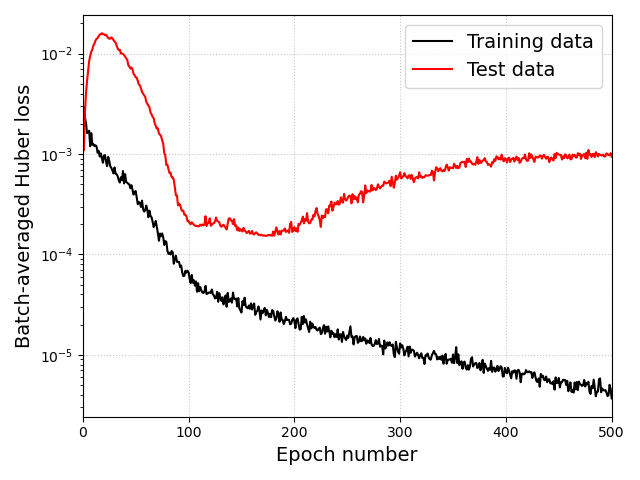
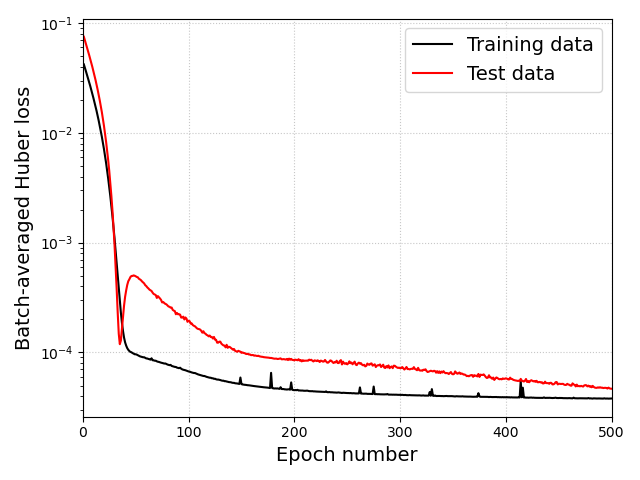
Adding latest LSTM code

diff --git a/scripts/lstm/lstm_model.py b/scripts/lstm/lstm_model.py
@@ -24,7 +24,7 @@ config = {
 # Features of interest
 'feature_names': ['pressure', 'dpdt'],
 # Fraction of full data kept aside as training data
-'train_frac': 0.8,
+'train_frac': 0.50,
 # Sequence length
 'seq_length': 16,
 # Batch size
@@ -69,8 +69,9 @@ def fit_lstm(config: dict) -> None:
     features, t0, target_vals = daily_seismic_and_interpolated_pressure(seismic_df, pressure_df)
     features['cum_counts'] = target_vals
     print('Aggregated pressure and seismic data.')
-    # Pass cumulative counts as input.
-    config['feature_names'].append('cum_counts')
+    # Pass historical target values as input.
+    if 'cum_counts' not in config['feature_names']:
+        config['feature_names'].append('cum_counts')
 
     train_dset, test_dset, x_scaler, y_scaler = construct_dataset(features, target_vals, config['seq_length'],
                                                                   config['feature_names'], config['train_frac'],
@@ -115,17 +116,22 @@ def fit_lstm(config: dict) -> None:
     prediction_train = predict(train_eval_loader, model)
     prediction_test = predict(test_loader, model)
     # Undo normalization.
-    y_train = y_scaler.inverse_transform(train_dset.y.numpy().reshape(-1,1)).flatten()
-    y_test = y_scaler.inverse_transform(test_dset.y.numpy().reshape(-1,1)).flatten()
+    y_train = y_scaler.inverse_transform(train_dset.Y.numpy().reshape(-1,1)).flatten()
+    y_test = y_scaler.inverse_transform(test_dset.Y.numpy().reshape(-1,1)).flatten()
     prediction_train = y_scaler.inverse_transform(prediction_train.numpy().reshape(-1,1)).flatten()
     prediction_test =  y_scaler.inverse_transform(prediction_test.numpy().reshape(-1,1)).flatten()
+    # Pad predictions with NaNs to the size of train and test data.
+    start_pad = np.zeros(config['seq_length'])*np.NaN
+    end_pad = np.zeros(1)*np.NaN # Horizon length = 1
+    prediction_train = np.concatenate((start_pad, prediction_train, end_pad))
+    prediction_test = np.concatenate((start_pad, prediction_test, end_pad))
     print('Computed model prediction on training and test data')
 
     print('Plotting loss curve')
     plot_losscurve(n_epoch, train_loss, test_loss, config['criterion'], config['PLOT_DIR']+'losscurve', config['plot_formats'])
 
     print('Plotting train/test data and model prediction')
-    test_start_idx = len(train_dset.y)
+    test_start_idx = len(train_dset.Y)
     plot_modelpred(features.days[:test_start_idx], y_train, features.days[test_start_idx:], y_test,
                    prediction_train, prediction_test, t0, config['PLOT_DIR']+'prediction', config['plot_formats'])
 

diff --git a/src/saif/lstm/dataset.py b/src/saif/lstm/dataset.py
@@ -2,6 +2,7 @@ import torch, math
 import numpy as np
 import pandas as pd
 from torch.utils.data import Dataset
+from saif.scinet.dataset import TimeSeriesDataset
 from saif.ml_utils.normalization import normalize
 from typing import List, Tuple
 ####################################################################
@@ -19,9 +20,10 @@ class LSTMdataset(Dataset):
         seq_length: int
              Sequence length
         '''
+        self.horizon = 1
         self.seq_length = seq_length
         self.X = torch.tensor(feature_data).float()
-        self.y = torch.tensor(target_data).float()
+        self.Y = torch.tensor(target_data).float()
 
     def __len__(self):
         '''
@@ -35,13 +37,19 @@ class LSTMdataset(Dataset):
         If i is near the beginning of the dataset, we pad by repeating the first row as many times as needed to make the output have seq_length rows.
         '''
         if i >= self.seq_length - 1:
-            i_start = i - self.seq_length + 1
-            x = self.X[i_start:(i + 1), :]
+            x_start = i - self.seq_length + 1
+            x_end = x_start + self.seq_length
+            y_start = x_end
+            y_end = y_start + self.horizon
+            x = self.X[x_start:x_end, :]
+            y = self.Y[y_start:y_end]
         else:
             padding = self.X[0].repeat(self.seq_length - i - 1, 1)
             x = self.X[0:(i + 1), :]
             x = torch.cat((padding, x), 0)
-        return x, self.y[i]
+            y_start = i+1
+            y = self.Y[i+1: i+self.horizon+1]
+        return x, y
 
 ####################################################################
 def construct_dataset(features: pd.DataFrame, target_vals: np.ndarray, seq_length: int,
@@ -81,9 +89,9 @@ def construct_dataset(features: pd.DataFrame, target_vals: np.ndarray, seq_lengt
     if do_normalize:
         train_x, train_y, test_x, test_y, x_scaler, y_scaler = normalize(train_x, train_y, test_x, test_y)
 
-    # Generate data sets.
-    train_dset = LSTMdataset(train_x, train_y, seq_length)
-    test_dset = LSTMdataset(test_x, test_y, seq_length)
+    # Generate data sets. Set horizon length  to 1.
+    train_dset = TimeSeriesDataset(train_x, train_y, seq_length, 1, feature_names)
+    test_dset = TimeSeriesDataset(test_x, test_y, seq_length, 1, feature_names)
 
     if do_normalize:
         return train_dset, test_dset, x_scaler, y_scaler

diff --git a/src/saif/lstm/model.py b/src/saif/lstm/model.py
@@ -45,10 +45,10 @@ class ShallowRegLSTM(nn.Module):
 
         _, (hn, _) = self.lstm(x, (h0, c0))
         # Shape of hn = (num_layers, batch size, hidden_size)
-        out = self.linear(hn.permute(1,0,2).flatten(start_dim=1, end_dim=-1)).flatten()
+        out = self.linear(hn.permute(1,0,2).flatten(start_dim=1, end_dim=-1))
         # Enforce monotonicity.
         out = self.monotonic_fn(out)
         # Force initial value of the horizon to be lower bounded by the final value of the input sequence.
         # Assumes the last feature to be the cumulative count of seismic events.
-        out = out.cumsum(-1) + x[:, -1, -1]
+        out += x[:, -1, -1, None]
         return out
